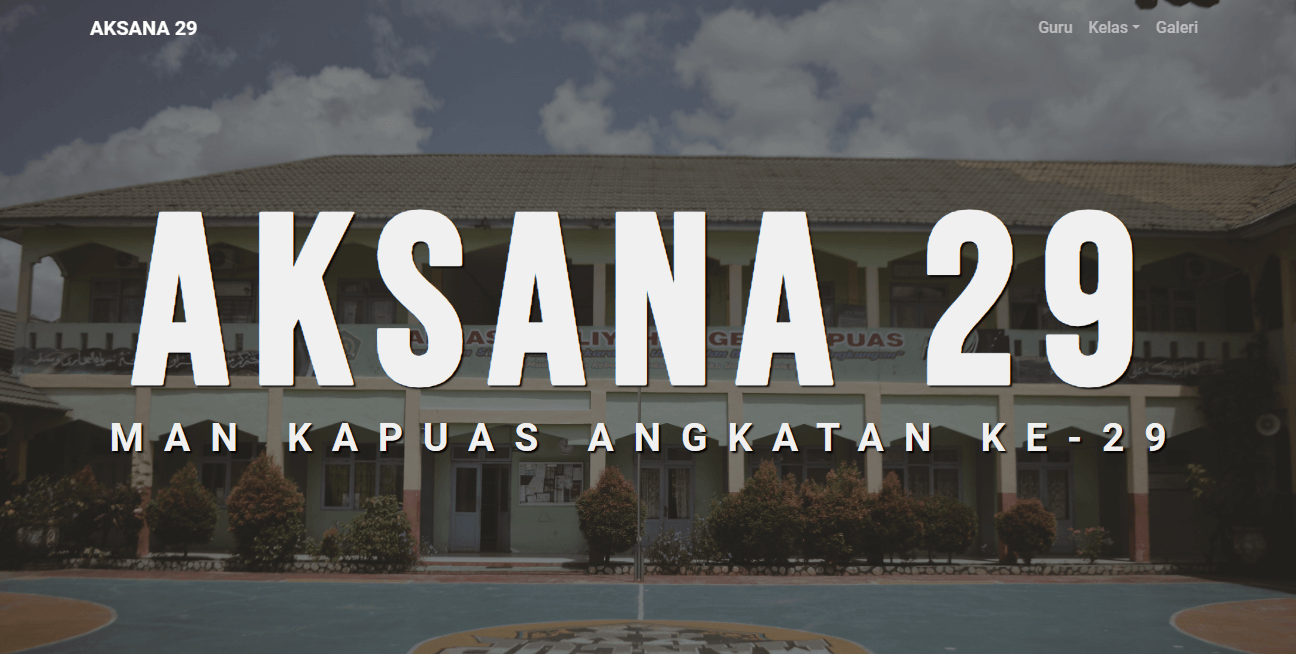
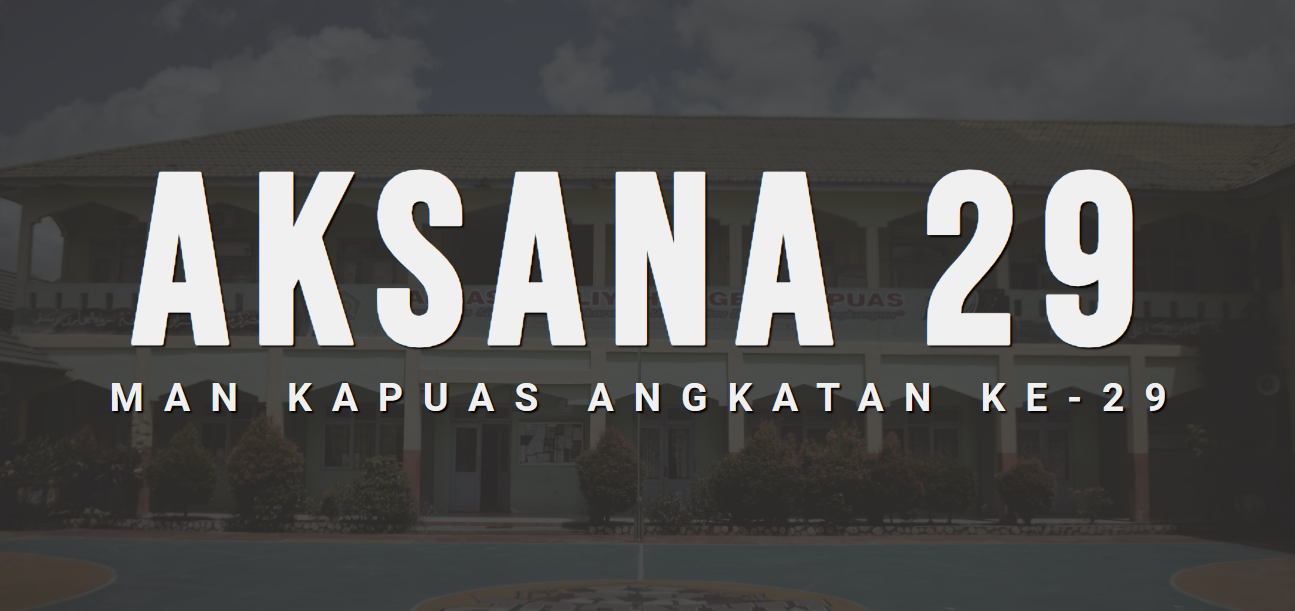
Update 15-4-2024, 07:07

diff --git a/index.html b/index.html
@@ -10,10 +10,6 @@
         <!-- Title -->
         <title>BUKU TAHUNAN AKSANA 29 MAN KAPUAS TAHUN 2024</title>
 
-        <!-- Bootstrap CSS -->
-        <link href="https://cdn.jsdelivr.net/npm/bootstrap@5.3.3/dist/css/bootstrap.min.css" rel="stylesheet"
-            integrity="sha384-QWTKZyjpPEjISv5WaRU9OFeRpok6YctnYmDr5pNlyT2bRjXh0JMhjY6hW+ALEwIH" crossorigin="anonymous">
-
         <!-- Font Google -->
         <link rel="preconnect" href="https://fonts.googleapis.com">
         <link rel="preconnect" href="https://fonts.gstatic.com" crossorigin>
@@ -21,6 +17,10 @@
             href="https://fonts.googleapis.com/css2?family=Roboto:ital,wght@0,100;0,300;0,400;0,500;0,700;0,900;1,100;1,300;1,400;1,500;1,700;1,900&display=swap"
             rel="stylesheet">
         <link href="https://fonts.googleapis.com/css2?family=Bebas+Neue&display=swap" rel="stylesheet">
+
+        <!-- Bootstrap CSS -->
+        <link href="https://cdn.jsdelivr.net/npm/bootstrap@5.3.3/dist/css/bootstrap.min.css" rel="stylesheet"
+            integrity="sha384-QWTKZyjpPEjISv5WaRU9OFeRpok6YctnYmDr5pNlyT2bRjXh0JMhjY6hW+ALEwIH" crossorigin="anonymous">
 
         <!-- My CSS -->
         <link rel="stylesheet" href="style/style.css">
@@ -88,7 +88,7 @@
                         <div class="card">
                             <img src="img/homepage/about/web.png" class="card-img-top" alt="foto angkatan 29">
                             <div class="card-body">
-                                <h5 class="card-title text-center fw-bold">Buku Angkatan</h5>
+                                <h5 class="card-title text-center fw-bold">Website Buku Angkatan</h5>
                                 <p class="card-text text-justify">
                                     Website Aksana 29 merupakan website yang dijadikan
                                     tempat bagaimana Angkatan 29 MAN
@@ -112,13 +112,13 @@
                                 <ul class="list-group list-group-flush">
                                     <li class="list-group-item list-group-item-action">Ketua Angkatan : <b>Akhmad Rezky
                                             Utama</b></li>
-                                    <li class="list-group-item list-group-item-action">
+                                    <!-- <li class="list-group-item list-group-item-action">
                                         <div class="fw-bold">Struktur OSIM</div>
                                         <div>Ketua : <b>Muhamad Kemal Faza</b></div>
                                         <div>Wakil : <b>Muhammad Ridwan</b></div>
                                         <div>Sekretaris : <b>Intan Nurul Ain</b></div>
                                         <div>Bendahara : <b>Aisya Rahmah</b></div>
-                                    </li>
+                                    </li> -->
                                     <!-- <li class="list-group-item list-group-item-action">
                                         <div class="fw-bold">Ketua Ekskul</div>
                                         <div>Drum Band : <b>Nur Rahman Diva Yanda</b></div>
@@ -192,7 +192,7 @@
             <div class="container-fluid bg-dark text-white p-5">
                 <div class="row">
                     <div class="col-12 col-sm-6 text-justify">
-                        <h3>BUKU TAHUNAN ANGKATAN 29 (AKSANA 29) MAN KAPUAS TAHUN 2024</h3>
+                        <h3>WEBSITE BUKU TAHUNAN ANGKATAN 29 (AKSANA 29) MAN KAPUAS TAHUN 2024</h3>
                         <p>Website Buku Tahunan Aksana 29 merupakan website yang dijadikan
                             tempat bagaimana Angkatan 29 MAN
                             Kapuas bercerita, bernostalgia, dan bertukar informasi satu sama lain nya dalam
@@ -203,7 +203,7 @@
                             (fisik) yang sekarang bisa diakses dengan mudahnya secara digital (online)
                         </p>
                     </div>
-                    <div class="col-12 col-sm-6">
+                    <div class="col-12 col-sm-6 text-end">
                         <p>
                             Copyright © 2024
                             <br>

diff --git a/style/style.css b/style/style.css
@@ -3,7 +3,6 @@
 }
 
 nav {
-    /* background-color: transparent; */
     transition: 0.3s;
 }
 
@@ -18,7 +17,7 @@ section.hero-section .container-fluid::after {
     width: 100vw;
     height: 100%;
     content: "";
-    background-color: rgba(50, 50, 50, 0.5) !important;
+    background-color: rgba(50, 50, 50, 0.8) !important;
     top: 0;
 }
 
@@ -53,16 +52,6 @@ hr {
     text-align: justify;
 }
 
-.carousel-inner::after {
-    position: absolute;
-    display: block;
-    width: 100vw;
-    height: 50%;
-    content: "";
-    background-image: linear-gradient(0, rgba(0, 0, 0, 1), rgba(0, 0, 0, 0));
-    bottom: 0;
-}
-
 .pesan-kesan {
     white-space: pre;
     text-wrap: wrap;
@@ -86,4 +75,17 @@ hr {
 
 blockquote p {
     font-size: 1rem;
+}
+
+@media (min-width: 1000px) {
+    section.about > .row:last-child > .col:first-child {
+        opacity: 0;
+        /* background-color: red; */
+        transform: translate(-40px, 0);
+    }
+
+    section.about > .row:last-child > .col:last-child {
+        opacity: 0;
+        transform: translate(40px, 0);
+    }
 }

diff --git a/guru.html b/guru.html
@@ -171,7 +171,7 @@
             <div class="container-fluid bg-dark text-white p-5">
                 <div class="row">
                     <div class="col-12 col-sm-6 text-justify">
-                        <h3>BUKU TAHUNAN ANGKATAN 29 (AKSANA 29) MAN KAPUAS TAHUN 2024</h3>
+                        <h3>WEBSITE BUKU TAHUNAN ANGKATAN 29 (AKSANA 29) MAN KAPUAS TAHUN 2024</h3>
                         <p>Website Buku Tahunan Aksana 29 merupakan website yang dijadikan
                             tempat bagaimana Angkatan 29 MAN
                             Kapuas bercerita, bernostalgia, dan bertukar informasi satu sama lain nya dalam
@@ -182,7 +182,7 @@
                             (fisik) yang sekarang bisa diakses dengan mudahnya secara digital (online)
                         </p>
                     </div>
-                    <div class="col-12 col-sm-6">
+                    <div class="col-12 col-sm-6 text-end">
                         <p>
                             Copyright © 2024
                             <br>

diff --git a/pesdik/dua-belas-ipa-1.html b/pesdik/dua-belas-ipa-1.html
@@ -122,7 +122,7 @@
             <div class="container-fluid bg-dark text-white p-5">
                 <div class="row">
                     <div class="col-12 col-sm-6 text-justify">
-                        <h3>BUKU TAHUNAN ANGKATAN 29 (AKSANA 29) MAN KAPUAS TAHUN 2024</h3>
+                        <h3>WEBSITE BUKU TAHUNAN ANGKATAN 29 (AKSANA 29) MAN KAPUAS TAHUN 2024</h3>
                         <p>Website Buku Tahunan Aksana 29 merupakan website yang dijadikan
                             tempat bagaimana Angkatan 29 MAN
                             Kapuas bercerita, bernostalgia, dan bertukar informasi satu sama lain nya dalam
@@ -133,7 +133,7 @@
                             (fisik) yang sekarang bisa diakses dengan mudahnya secara digital (online)
                         </p>
                     </div>
-                    <div class="col-12 col-sm-6">
+                    <div class="col-12 col-sm-6 text-end">
                         <p>
                             Copyright © 2024
                             <br>

diff --git a/pesdik/dua-belas-ipa-2.html b/pesdik/dua-belas-ipa-2.html
@@ -122,7 +122,7 @@
             <div class="container-fluid bg-dark text-white p-5">
                 <div class="row">
                     <div class="col-12 col-sm-6 text-justify">
-                        <h3>BUKU TAHUNAN ANGKATAN 29 (AKSANA 29) MAN KAPUAS TAHUN 2024</h3>
+                        <h3>WEBSITE BUKU TAHUNAN ANGKATAN 29 (AKSANA 29) MAN KAPUAS TAHUN 2024</h3>
                         <p>Website Buku Tahunan Aksana 29 merupakan website yang dijadikan
                             tempat bagaimana Angkatan 29 MAN
                             Kapuas bercerita, bernostalgia, dan bertukar informasi satu sama lain nya dalam
@@ -133,7 +133,7 @@
                             (fisik) yang sekarang bisa diakses dengan mudahnya secara digital (online)
                         </p>
                     </div>
-                    <div class="col-12 col-sm-6">
+                    <div class="col-12 col-sm-6 text-end">
                         <p>
                             Copyright © 2024
                             <br>

diff --git a/pesdik/dua-belas-ipa-3.html b/pesdik/dua-belas-ipa-3.html
@@ -122,7 +122,7 @@
             <div class="container-fluid bg-dark text-white p-5">
                 <div class="row">
                     <div class="col-12 col-sm-6 text-justify">
-                        <h3>BUKU TAHUNAN ANGKATAN 29 (AKSANA 29) MAN KAPUAS TAHUN 2024</h3>
+                        <h3>WEBSITE BUKU TAHUNAN ANGKATAN 29 (AKSANA 29) MAN KAPUAS TAHUN 2024</h3>
                         <p>Website Buku Tahunan Aksana 29 merupakan website yang dijadikan
                             tempat bagaimana Angkatan 29 MAN
                             Kapuas bercerita, bernostalgia, dan bertukar informasi satu sama lain nya dalam
@@ -133,7 +133,7 @@
                             (fisik) yang sekarang bisa diakses dengan mudahnya secara digital (online)
                         </p>
                     </div>
-                    <div class="col-12 col-sm-6">
+                    <div class="col-12 col-sm-6 text-end">
                         <p>
                             Copyright © 2024
                             <br>

diff --git a/pesdik/dua-belas-ipa-4.html b/pesdik/dua-belas-ipa-4.html
@@ -122,7 +122,7 @@
             <div class="container-fluid bg-dark text-white p-5">
                 <div class="row">
                     <div class="col-12 col-sm-6 text-justify">
-                        <h3>BUKU TAHUNAN ANGKATAN 29 (AKSANA 29) MAN KAPUAS TAHUN 2024</h3>
+                        <h3>WEBSITE BUKU TAHUNAN ANGKATAN 29 (AKSANA 29) MAN KAPUAS TAHUN 2024</h3>
                         <p>Website Buku Tahunan Aksana 29 merupakan website yang dijadikan
                             tempat bagaimana Angkatan 29 MAN
                             Kapuas bercerita, bernostalgia, dan bertukar informasi satu sama lain nya dalam
@@ -133,7 +133,7 @@
                             (fisik) yang sekarang bisa diakses dengan mudahnya secara digital (online)
                         </p>
                     </div>
-                    <div class="col-12 col-sm-6">
+                    <div class="col-12 col-sm-6 text-end">
                         <p>
                             Copyright © 2024
                             <br>

diff --git a/pesdik/dua-belas-ips-1.html b/pesdik/dua-belas-ips-1.html
@@ -121,7 +121,7 @@
             <div class="container-fluid bg-dark text-white p-5">
                 <div class="row">
                     <div class="col-12 col-sm-6 text-justify">
-                        <h3>BUKU TAHUNAN ANGKATAN 29 (AKSANA 29) MAN KAPUAS TAHUN 2024</h3>
+                        <h3>WEBSITE BUKU TAHUNAN ANGKATAN 29 (AKSANA 29) MAN KAPUAS TAHUN 2024</h3>
                         <p>Website Buku Tahunan Aksana 29 merupakan website yang dijadikan
                             tempat bagaimana Angkatan 29 MAN
                             Kapuas bercerita, bernostalgia, dan bertukar informasi satu sama lain nya dalam
@@ -132,7 +132,7 @@
                             (fisik) yang sekarang bisa diakses dengan mudahnya secara digital (online)
                         </p>
                     </div>
-                    <div class="col-12 col-sm-6">
+                    <div class="col-12 col-sm-6 text-end">
                         <p>
                             Copyright © 2024
                             <br>

diff --git a/pesdik/dua-belas-ips-2.html b/pesdik/dua-belas-ips-2.html
@@ -121,7 +121,7 @@
             <div class="container-fluid bg-dark text-white p-5">
                 <div class="row">
                     <div class="col-12 col-sm-6 text-justify">
-                        <h3>BUKU TAHUNAN ANGKATAN 29 (AKSANA 29) MAN KAPUAS TAHUN 2024</h3>
+                        <h3>WEBSITE BUKU TAHUNAN ANGKATAN 29 (AKSANA 29) MAN KAPUAS TAHUN 2024</h3>
                         <p>Website Buku Tahunan Aksana 29 merupakan website yang dijadikan
                             tempat bagaimana Angkatan 29 MAN
                             Kapuas bercerita, bernostalgia, dan bertukar informasi satu sama lain nya dalam
@@ -132,7 +132,7 @@
                             (fisik) yang sekarang bisa diakses dengan mudahnya secara digital (online)
                         </p>
                     </div>
-                    <div class="col-12 col-sm-6">
+                    <div class="col-12 col-sm-6 text-end">
                         <p>
                             Copyright © 2024
                             <br>

diff --git a/pesdik/dua-belas-ips-3.html b/pesdik/dua-belas-ips-3.html
@@ -121,7 +121,7 @@
             <div class="container-fluid bg-dark text-white p-5">
                 <div class="row">
                     <div class="col-12 col-sm-6 text-justify">
-                        <h3>BUKU TAHUNAN ANGKATAN 29 (AKSANA 29) MAN KAPUAS TAHUN 2024</h3>
+                        <h3>WEBSITE BUKU TAHUNAN ANGKATAN 29 (AKSANA 29) MAN KAPUAS TAHUN 2024</h3>
                         <p>Website Buku Tahunan Aksana 29 merupakan website yang dijadikan
                             tempat bagaimana Angkatan 29 MAN
                             Kapuas bercerita, bernostalgia, dan bertukar informasi satu sama lain nya dalam
@@ -132,7 +132,7 @@
                             (fisik) yang sekarang bisa diakses dengan mudahnya secara digital (online)
                         </p>
                     </div>
-                    <div class="col-12 col-sm-6">
+                    <div class="col-12 col-sm-6 text-end">
                         <p>
                             Copyright © 2024
                             <br>

diff --git a/pesdik/dua-belas-pai.html b/pesdik/dua-belas-pai.html
@@ -121,7 +121,7 @@
             <div class="container-fluid bg-dark text-white p-5">
                 <div class="row">
                     <div class="col-12 col-sm-6 text-justify">
-                        <h3>BUKU TAHUNAN ANGKATAN 29 (AKSANA 29) MAN KAPUAS TAHUN 2024</h3>
+                        <h3>WEBSITE BUKU TAHUNAN ANGKATAN 29 (AKSANA 29) MAN KAPUAS TAHUN 2024</h3>
                         <p>Website Buku Tahunan Aksana 29 merupakan website yang dijadikan
                             tempat bagaimana Angkatan 29 MAN
                             Kapuas bercerita, bernostalgia, dan bertukar informasi satu sama lain nya dalam
@@ -132,7 +132,7 @@
                             (fisik) yang sekarang bisa diakses dengan mudahnya secara digital (online)
                         </p>
                     </div>
-                    <div class="col-12 col-sm-6">
+                    <div class="col-12 col-sm-6 text-end">
                         <p>
                             Copyright © 2024
                             <br>
